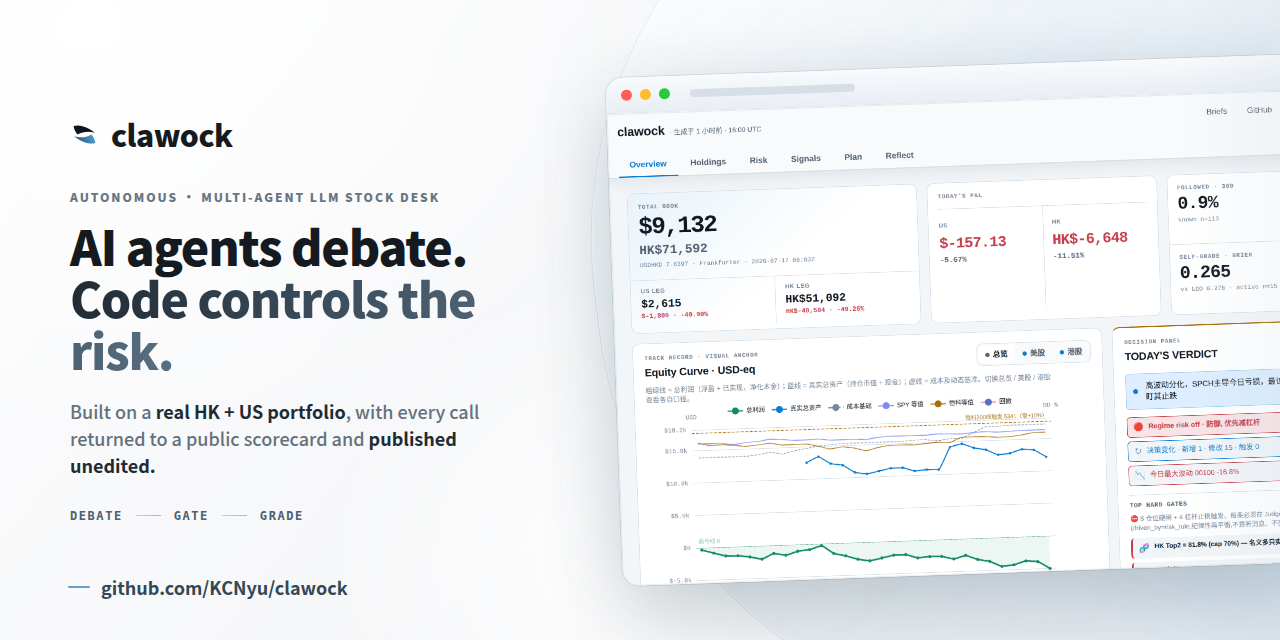
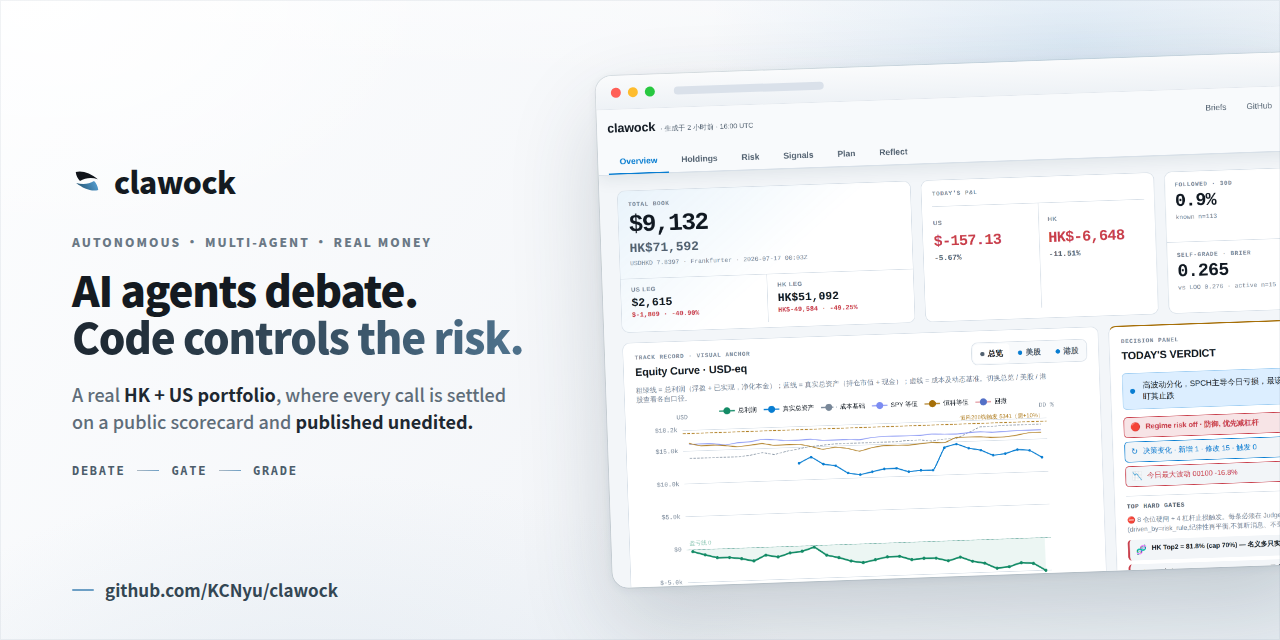
design: redraw architecture as a closed loop, refresh the social card
- architecture.svg: recompose into an explicit clockwise ring —
  evidence -> decision room -> contract -> PUBLISH -> canonical bars ->
  settle+grade -> public scorecard -> NEXT BRIEF back to evidence.
  Unify the card accent rails, fix the JUDGE bar overflow, draw the
  feedback loop that the old flat strip only implied.
- shoot_dashboard.js: new social-card background (pearl base + soft blue
  aura, drop the rotated blob and right fade), two-line headline, and
  tightened eyebrow/sub copy. Regenerate social-card.png from the live
  dashboard.

diff --git a/scripts/data/shoot_dashboard.js b/scripts/data/shoot_dashboard.js
@@ -188,87 +188,72 @@ function socialCardHTML(shotDataUri) {
   html,body { width:1280px; height:640px; overflow:hidden; }
   body {
     font-family:-apple-system,"Segoe UI","Helvetica Neue","Noto Sans CJK SC",sans-serif;
+    color:#141a21; display:flex; align-items:center; position:relative;
     background:
-      radial-gradient(65% 95% at 7% 4%,rgba(255,255,255,.98),transparent 72%),
-      linear-gradient(128deg,#fcfcfd 0%,#f5f6f8 56%,#edf2f5 100%);
-    color:#151a21; display:flex; align-items:center; position:relative;
+      radial-gradient(42% 60% at 84% 6%, rgba(110,170,220,.22), transparent 68%),
+      radial-gradient(46% 58% at 4% 0%, rgba(255,255,255,.96), transparent 66%),
+      radial-gradient(70% 90% at 26% 128%, rgba(206,220,232,.55), transparent 60%),
+      linear-gradient(125deg,#fcfdfe 0%,#f4f6f9 54%,#e8eef3 100%);
   }
+  /* hairline inner frame + faint top sheen for depth */
   body::before {
-    content:""; position:absolute; inset:0; pointer-events:none;
-    background:
-      radial-gradient(circle at 84% 16%,rgba(121,181,225,.22),transparent 28%),
-      radial-gradient(circle at 48% 88%,rgba(255,255,255,.82),transparent 34%);
+    content:""; position:absolute; inset:0; pointer-events:none; z-index:5;
+    box-shadow: inset 0 0 0 1px rgba(120,140,158,.10);
+    background: linear-gradient(180deg, rgba(255,255,255,.35), transparent 12%);
   }
-  body::after {
-    content:""; position:absolute; z-index:0; right:-215px; top:-205px;
-    width:900px; height:920px; border-radius:48%;
-    transform:rotate(-7deg);
-    background:
-      radial-gradient(circle at 72% 70%,rgba(127,184,226,.22),transparent 28%),
-      linear-gradient(145deg,rgba(255,255,255,.82),rgba(216,227,236,.72));
-    border:1px solid rgba(91,115,135,.10);
-    box-shadow:inset 1px 0 rgba(255,255,255,.88);
-  }
-  .left { width:560px; padding:58px 0 64px 70px; flex:none; z-index:3; }
-  .brand { display:flex; align-items:center; gap:12px; margin-bottom:32px; }
-  .brand-mark { width:29px; height:29px; flex:none; }
+  .left { width:588px; padding:56px 0 60px 72px; flex:none; z-index:3; }
+  .brand { display:flex; align-items:center; gap:12px; margin-bottom:30px; }
+  .brand-mark { width:30px; height:30px; flex:none; }
   .brand .name { font-size:30px; font-weight:800; letter-spacing:-.5px; }
-  .eyebrow { margin-bottom:15px; color:#667582; font-size:12px; font-weight:800;
-    letter-spacing:.16em; }
-  h1 { font-size:48px; line-height:1.08; font-weight:800; letter-spacing:-1.25px;
-    margin-bottom:22px; max-width:500px; }
+  .eyebrow { margin-bottom:16px; color:#6a7885; font-size:12px; font-weight:800;
+    letter-spacing:.17em; }
+  h1 { font-size:42px; line-height:1.1; font-weight:820; letter-spacing:-1.2px;
+    margin-bottom:22px; }
   h1 .hl {
-    color:#293844;
-    background:linear-gradient(90deg,#202b35,#586f81);
+    background:linear-gradient(92deg,#1f2a34 8%,#4d708a 96%);
     -webkit-background-clip:text; background-clip:text; -webkit-text-fill-color:transparent;
   }
-  .sub { font-size:18px; line-height:1.5; color:#64717c; font-weight:520; max-width:440px; }
-  .sub b { color:#202a33; font-weight:750; }
-  .proof { display:flex; align-items:center; gap:13px; margin-top:31px;
-    color:#4f606e; font:800 12px/1 ui-monospace,SFMono-Regular,Menlo,monospace;
-    letter-spacing:.13em; }
-  .proof i { width:25px; height:1px; background:linear-gradient(90deg,#b9c4cd,#6d9fc5);
-    opacity:.72; }
-  .repo { position:absolute; left:68px; bottom:40px; font-size:18px; font-weight:700;
-    color:#344754; display:flex; align-items:center; gap:11px; }
+  .sub { font-size:18px; line-height:1.5; color:#5f6d79; font-weight:500; max-width:452px; }
+  .sub b { color:#1e2831; font-weight:750; }
+  .proof { display:flex; align-items:center; gap:12px; margin-top:30px;
+    color:#4c5d6b; font:800 12px/1 ui-monospace,SFMono-Regular,Menlo,monospace;
+    letter-spacing:.14em; }
+  .proof i { width:22px; height:1px; background:linear-gradient(90deg,#aeb9c3,#6ea0c6); }
+  .repo { position:absolute; left:72px; bottom:38px; font-size:17px; font-weight:700;
+    color:#334653; display:flex; align-items:center; gap:11px; }
   .repo::before { content:""; width:22px; height:2px; border-radius:2px; background:#6d9fc5; }
   .shot {
-    position:absolute; right:-34px; top:50%; transform:translateY(-50%) rotate(-2deg);
-    width:700px; height:508px; border-radius:17px; overflow:hidden;
+    position:absolute; right:-30px; top:50%; transform:translateY(-50%) rotate(-2deg);
+    width:706px; height:512px; border-radius:16px; overflow:hidden;
     box-shadow:
-      0 34px 80px rgba(38,53,65,.20),
-      0 0 0 1px rgba(82,105,123,.16),
-      0 0 72px rgba(109,159,197,.12);
+      0 40px 90px rgba(41,58,73,.20),
+      0 0 0 1px rgba(88,110,128,.14),
+      0 2px 10px rgba(41,58,73,.08);
     background:#fff; z-index:2;
   }
-  .shot .bar { height:36px; background:linear-gradient(180deg,#f8fafc,#e9eef5);
-    display:flex; align-items:center; gap:8px; padding:0 15px;
-    border-bottom:1px solid #dfe5ed; }
-  .shot .bar i { width:11px; height:11px; border-radius:50%; display:inline-block; }
+  .shot .bar { height:34px; background:linear-gradient(180deg,#fafbfc,#eef2f6);
+    display:flex; align-items:center; gap:7px; padding:0 15px;
+    border-bottom:1px solid #e3e8ee; }
+  .shot .bar i { width:10px; height:10px; border-radius:50%; display:inline-block; }
   .shot .bar i:nth-child(1){background:#ff5f57}
   .shot .bar i:nth-child(2){background:#febc2e}
   .shot .bar i:nth-child(3){background:#28c840}
-  .shot .address { width:165px; height:8px; margin-left:12px; border-radius:99px;
-    background:#d7dee8; }
-  .shot img { width:100%; height:472px; object-fit:cover; object-position:left top; display:block; }
-  .shot::after { content:""; position:absolute; inset:36px 0 0; pointer-events:none;
-    box-shadow:inset 0 0 0 1px rgba(30,63,95,.08); }
-  .fade { position:absolute; right:0; top:0; bottom:0; width:100px; z-index:4;
-    background:linear-gradient(90deg,rgba(237,242,245,0),rgba(190,206,218,.14)); pointer-events:none; }
+  .shot .address { width:150px; height:8px; margin-left:12px; border-radius:99px;
+    background:#dae1ea; }
+  .shot img { width:100%; height:478px; object-fit:cover; object-position:left top; display:block; }
 </style></head><body>
   <div class="left">
     <div class="brand">
       ${BRAND_MARK_SVG}
       <span class="name">clawock</span>
     </div>
-    <div class="eyebrow">AUTONOMOUS · MULTI-AGENT LLM STOCK DESK</div>
+    <div class="eyebrow">AUTONOMOUS · MULTI-AGENT · REAL MONEY</div>
     <h1>AI agents debate.<br><span class="hl">Code controls the risk.</span></h1>
-    <div class="sub">Built on a <b>real HK + US portfolio</b>, with every call returned to a public scorecard and <b>published unedited.</b></div>
+    <div class="sub">A real <b>HK + US portfolio</b>, where every call is settled on a public scorecard and <b>published unedited.</b></div>
     <div class="proof"><span>DEBATE</span><i></i><span>GATE</span><i></i><span>GRADE</span></div>
     <div class="repo">github.com/KCNyu/clawock</div>
   </div>
   <div class="shot"><div class="bar"><i></i><i></i><i></i><span class="address"></span></div><img src="${shotDataUri}" alt=""></div>
-  <div class="fade"></div>
   </body></html>`;
 }
 
